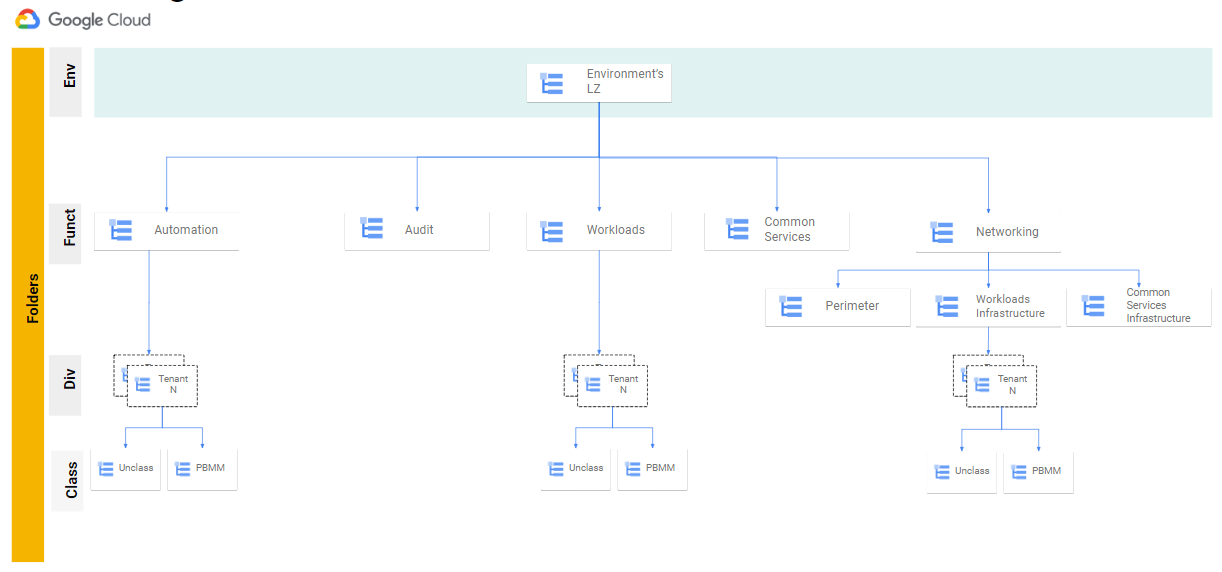
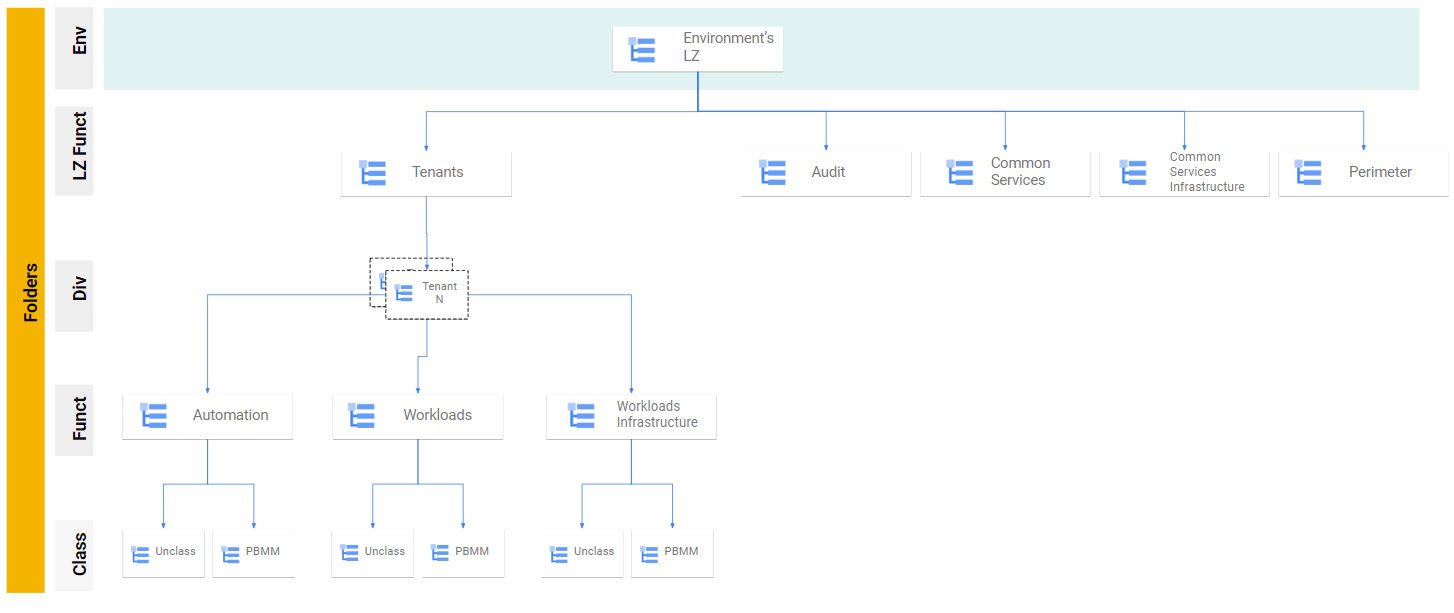
Feat/268: modified folder structure to simplify iam permissions management (#269)
feat: new folder structure plus iam permissions for admins and tenants

diff --git a/solutions/landing-zone-v2/onboarding-tenant.md b/solutions/landing-zone-v2/onboarding-tenant.md
@@ -9,19 +9,12 @@
 1. Get the hierarchy/tenant package
    - Sandbox
       ```
-      kpt pkg get https://github.com/GoogleCloudPlatform/pubsec-declarative-toolkit.git/solutions/hierarchy/tenant-sandbox@main ./landing-zone/hierarchy/Workloads/<tenant name>
+      kpt pkg get https://github.com/GoogleCloudPlatform/pubsec-declarative-toolkit.git/solutions/hierarchy/tenant-sandbox@main ./landing-zone/hierarchy/Tenants/<tenant name>
       ```
 
    - DEV, UAT, PROD
       ```
-      # Automation
-      kpt pkg get https://github.com/GoogleCloudPlatform/pubsec-declarative-toolkit.git/solutions/hierarchy/tenant-env@main ./landing-zone/hierarchy/Automation/<tenant name>
-
-      # Workloads
-      kpt pkg get https://github.com/GoogleCloudPlatform/pubsec-declarative-toolkit.git/solutions/hierarchy/tenant-env@main ./landing-zone/hierarchy/Workloads/<tenant name>
-
-      # Workloads-Infrastructure
-      kpt pkg get https://github.com/GoogleCloudPlatform/pubsec-declarative-toolkit.git/solutions/hierarchy/tenant-env@main ./landing-zone/hierarchy/Networking/Workloads-Infrastructure/<tenant name>
+      kpt pkg get https://github.com/GoogleCloudPlatform/pubsec-declarative-toolkit.git/solutions/hierarchy/tenant-env@main ./landing-zone/hierarchy/Tenants/<tenant name>
       ```
 
 1. Add tenant Host Project(s) and Shared VPC

diff --git a/solutions/landing-zone-v2/onboarding-admin.md b/solutions/landing-zone-v2/onboarding-admin.md
@@ -8,7 +8,7 @@
     ```
 1. Get the hierarchy/admin-sandbox package
     ```
-    kpt pkg get https://github.com/GoogleCloudPlatform/pubsec-declarative-toolkit.git/solutions/hierarchy/admin-sandbox@main ./landing-zone/hierarchy/Testing/<admin name>
+    kpt pkg get https://github.com/GoogleCloudPlatform/pubsec-declarative-toolkit.git/solutions/hierarchy/admin-sandbox@main ./landing-zone/hierarchy/Testing/Admins/<admin name>
     ```
 1. Customize the setters.yaml file
 
